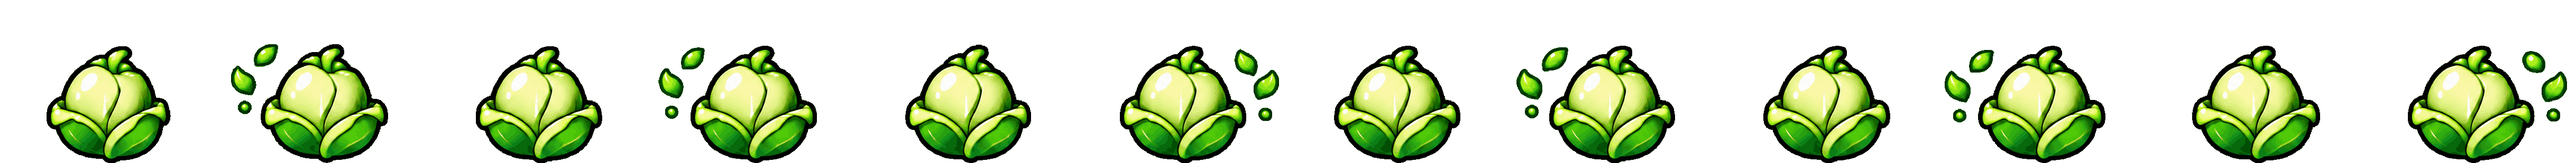
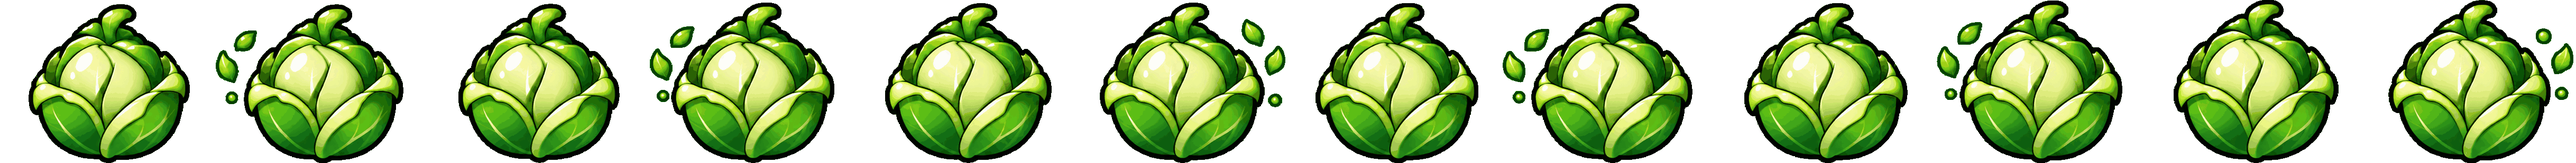
The Verdant egg peels, so run its phases largest to smallest
It was mapped the wrong way round: the fullest bud was at level 3 and
the tight pale core at level 1, so it appeared to grow. It sheds a layer
of leaf as it levels, so the sheets swap - 310px tall in the pack at
level 1, 277 at 2, 226 at 3.

The pack itself is unchanged in every other way, which is the point of
doing all three in one pass: same frame, same scale, same ground line to
the pixel, so only which file answers which level had to change. Level 1
still lands at parity with the other two species' eggs - 26,600px
against the Storm Acorn's 25,900 and the Cinder Egg's 29,600 - and
shrinks from there onto the same ground line.

Renamed with it. A dormant pod wrapped in moss with light leaking from
the seams was never this drawing, and it is less so now that the whole
point is the leaves coming off: Seedpod becomes Leaf Bud, described by
what it does.

Claude-Session: https://claude.ai/code/session_01YRzrKPfiP3SQKKej9Vjk7N

diff --git a/index.html b/index.html
@@ -1649,7 +1649,7 @@ const SPECIES = {
     blurb:"A quiet spirit of moss and old wood. Grows steadily, forgives slowly, glows when you are consistent.",
     theme:{ accent:"#4ade80", accent2:"#bef264", ink:"#05230f", glow:"74,222,128" },
     stages:[
-      { name:"Seedpod",     desc:"A dormant pod wrapped in moss. Faint green light leaks from the seams." },
+      { name:"Leaf Bud",    desc:"Layer on layer of leaf, wrapped tight. It sheds one every so often, and whatever is inside gets closer." },
       { name:"Bamboo Cub",  desc:"Round, hungry, and entirely bamboo-motivated. Will drop everything for a fresh stalk." },
       { name:"Fernkin",     desc:"Twig antlers, a moss cloak, and the beginnings of a serious opinion about mornings." },
       { name:"Thicketmane", desc:"Antlers heavy with leaves. Small flowers open when your streak is alive." },
@@ -2291,7 +2291,7 @@ PET_ART.ember = [
 "use strict";
 /* --- VERDANT: forest spirit ---------------------------------------------- */
 PET_ART.verdant = [
-/* 0 — Seedpod */ (c) => { const i = c.id; return `
+/* 0 — Leaf Bud */ (c) => { const i = c.id; return `
   <defs>
     <radialGradient id="sh${i}" cx="34%" cy="26%"><stop offset="0" stop-color="#6b7f52"/><stop offset="1" stop-color="#22301f"/></radialGradient>
     <linearGradient id="gl${i}" x1="0" y1="0" x2="0" y2="1"><stop offset="0" stop-color="#d9f99d"/><stop offset="1" stop-color="#4ade80"/></linearGradient>
@@ -2599,13 +2599,13 @@ const DEFAULT_SPRITES = {
     frames:12, rows:1, fps:2, aspect:1.194, scale:0.932, dx:0.00, dy:-2.19
   },
   "verdant:0": {
-    // The Sprout, and the src the level swaps - see EGG_PHASES. Packed like the
-    // other two eggs, in one pass across all three phases so they share a frame,
-    // a ground line and a centre. Unlike them it is NOT normalised to one body
-    // size: the other eggs crack, this one swells - 226px tall at level 1 and
-    // 310px at level 3 - and that growth is the art saying something is coming.
-    // The bud is the largest blob, so the leaves drifting off it cannot drag
-    // the anchor around.
+    // The Leaf Bud, and the src the level swaps - see EGG_PHASES. Packed like
+    // the other two eggs, in one pass across all three phases so they share a
+    // frame, a ground line and a centre. Unlike them it is NOT normalised to
+    // one body size: the other eggs crack, this one peels - 310px tall at
+    // level 1 and 226px at level 3, a layer of leaf shed each time - and that
+    // shrinking is the art saying something is coming. The bud is the largest
+    // blob, so the leaves drifting off it cannot drag the anchor around.
     src:"art/verdant-egg.png",
     frames:12, rows:1, fps:2, aspect:1.310, scale:0.93, dx:0, dy:2.3
   },
@@ -2662,8 +2662,8 @@ function spriteConfig(species, stage){
 /* Stamped into Settings so a device can say which build it is running. GitHub
    Pages caches index.html and offers no way to set headers on it, so a missing
    feature and a stale page look the same without this. */
-const BUILD_ID = "2026-09-16 200d91c";
-const ART_VERSION = "18";
+const BUILD_ID = "2026-09-16 8ff951d";
+const ART_VERSION = "19";
 function assetURL(src){
   return /^art\//.test(src) ? src + "?v=" + ART_VERSION : src;
 }

diff --git a/README.md b/README.md
@@ -166,7 +166,7 @@ import if you want to move a save or keep a backup.
 Three species, five stages each, all drawn as inline SVG and animated in CSS.
 
 - **Ember** (fire) — Cinder Egg → Cinderling → Blazewyrm → Pyrelord → Infernarch
-- **Verdant** (forest) — Seedpod → Sproutling → Fernkin → Thicketmane → Grovewarden
+- **Verdant** (forest) — Leaf Bud → Bamboo Cub → Fernkin → Thicketmane → Grovewarden
 - **Nimbus** (storm) — Static Egg → Puffling → Zephyrite → Tempestor → Thunderarch
 
 Your choice sets the app's accent colour. The pet's expression and idle
@@ -226,14 +226,14 @@ splits on 7 and spreads on 10, measured off the sheets rather than assumed. Whil
 or you would come home to an already cracked shell and then watch it crack.
 
 The Verdant egg is the exception that proves what the packing is for. It does
-not crack — it swells, a tight bud at level 1 and an open one at 3, 226px tall
-and then 310px in the pack. So its three phases are packed in one pass like
-the other two eggs, sharing a frame, a ground line to a pixel and a centre to
-about one, but they are deliberately *not* normalised to a common body size
-the way the shell phases are. Normalising is right when the art is the same
-object changing state and wrong when the change of size **is** the state. All
-three grow from the same ground line, so the bud swells upward rather than
-drifting.
+not crack — it peels, a full bud at level 1 down to a tight pale core at 3,
+310px tall in the pack and then 226px, a layer of leaf gone each time. So its
+three phases are packed in one pass like the other two eggs, sharing a frame,
+a ground line to a pixel and a centre to about one, but they are deliberately
+*not* normalised to a common body size the way the shell phases are.
+Normalising is right when the art is the same object changing state and wrong
+when the change of size **is** the state. All three sit on the same ground
+line, so the bud shrinks down onto it rather than drifting.
 
 A celebration's sheet is not the sheet the pet is already wearing, and a CSS
 background does not start loading until something paints it — which for a

diff --git a/art/PROMPTS.md b/art/PROMPTS.md
@@ -106,7 +106,7 @@ Mossy greens, warm bark browns, pale glowing yellow-green light.
 
 | Form | Subject line | Size in frame |
 | --- | --- | --- |
-| 1 · Seedpod | `SUBJECT: a dormant seed pod wrapped in moss, faint green light leaking from the seams, a single small sprout at its top` | fills ~55% |
+| 1 · Leaf Bud | *done* — `art/verdant-egg.png`, `-cracked`, `-breaking` (a leaf bud that peels rather than cracks, so the three phases run largest to smallest) | fills ~55% |
 | 2 · Bamboo Cub | *done* — `art/verdant-bamboo-cub.png` (a panda cub; the rest of this line is still moss spirits) | ~70% |
 | 3 · Fernkin | `SUBJECT: a young forest spirit with small twig antlers, a moss cloak over its shoulders, glowing eyes, a single fern frond behind one ear` | ~80% |
 | 4 · Thicketmane | `SUBJECT: a forest guardian with broad antlers heavy with leaves, a thick moss mantle, small flowers opening along the antlers, a glowing rune on its chest` | ~90% |

diff --git a/ART-SPEC.md b/ART-SPEC.md
@@ -109,7 +109,7 @@ final one, unlocking at levels 1, 5, 15, 30 and 50.
 
 | # | Ember — fire | Verdant — forest | Nimbus — storm |
 | --- | --- | --- | --- |
-| 1 | **Cinder Egg** ✅ | Seedpod | **Static Egg** ✅ |
+| 1 | **Cinder Egg** ✅ | **Leaf Bud** ✅ | **Static Egg** ✅ |
 | 2 | **Cinderling** ✅ | **Bamboo Cub** ✅ | **Puffling** ✅ |
 | 3 | **Blazewyrm** ✅ | Fernkin | **Zephyrite** ✅ |
 | 4 | Pyrelord | Thicketmane | Tempestor |
